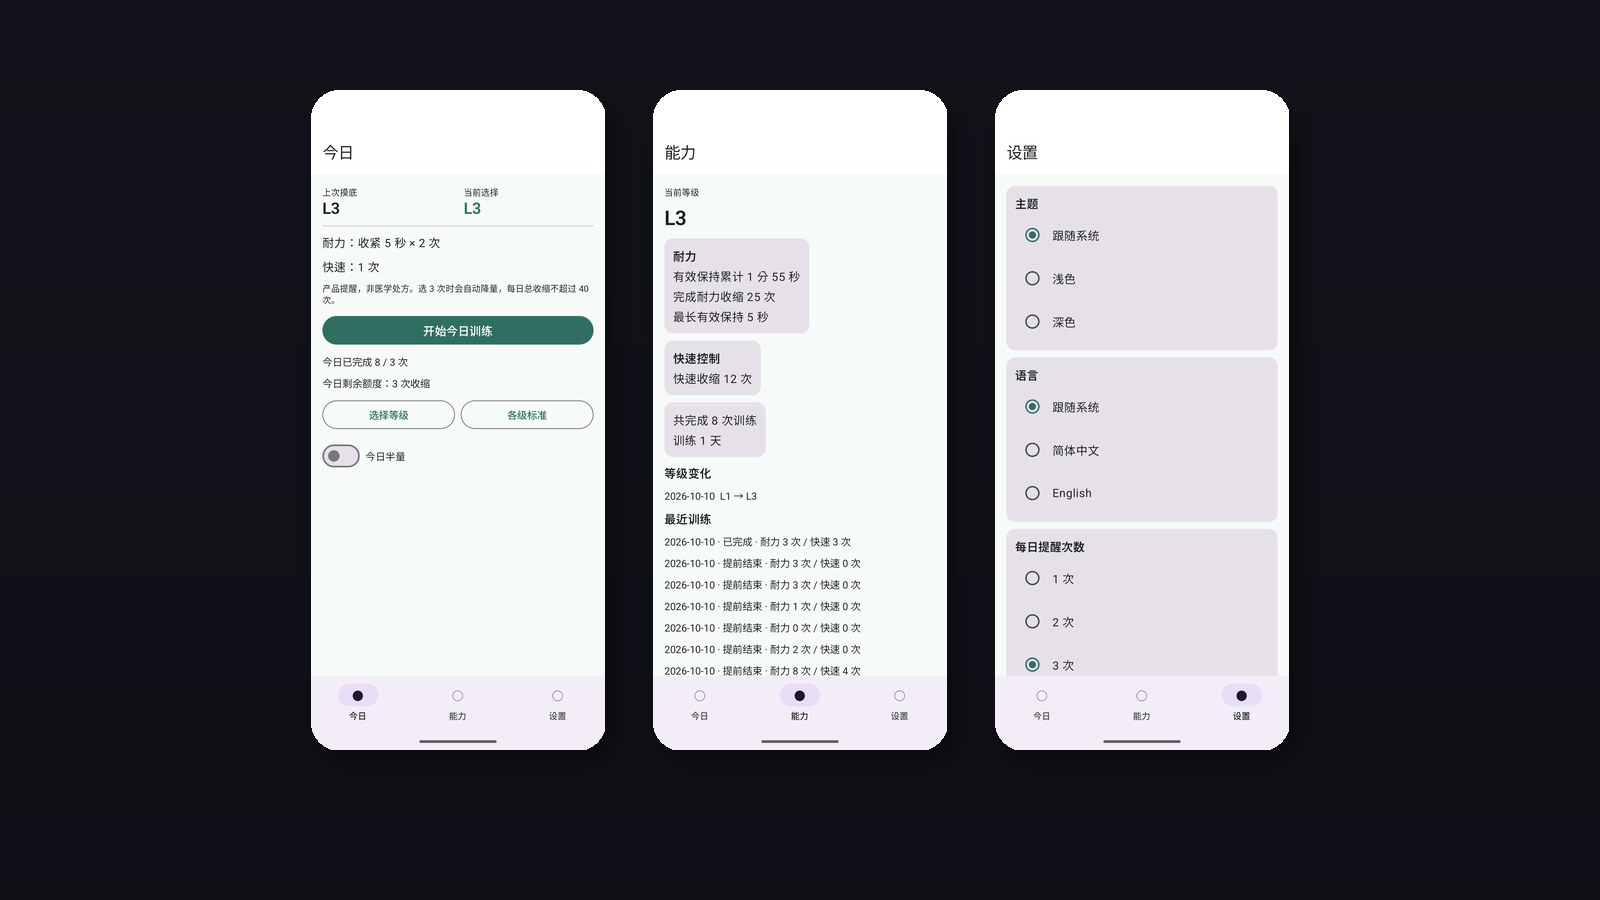
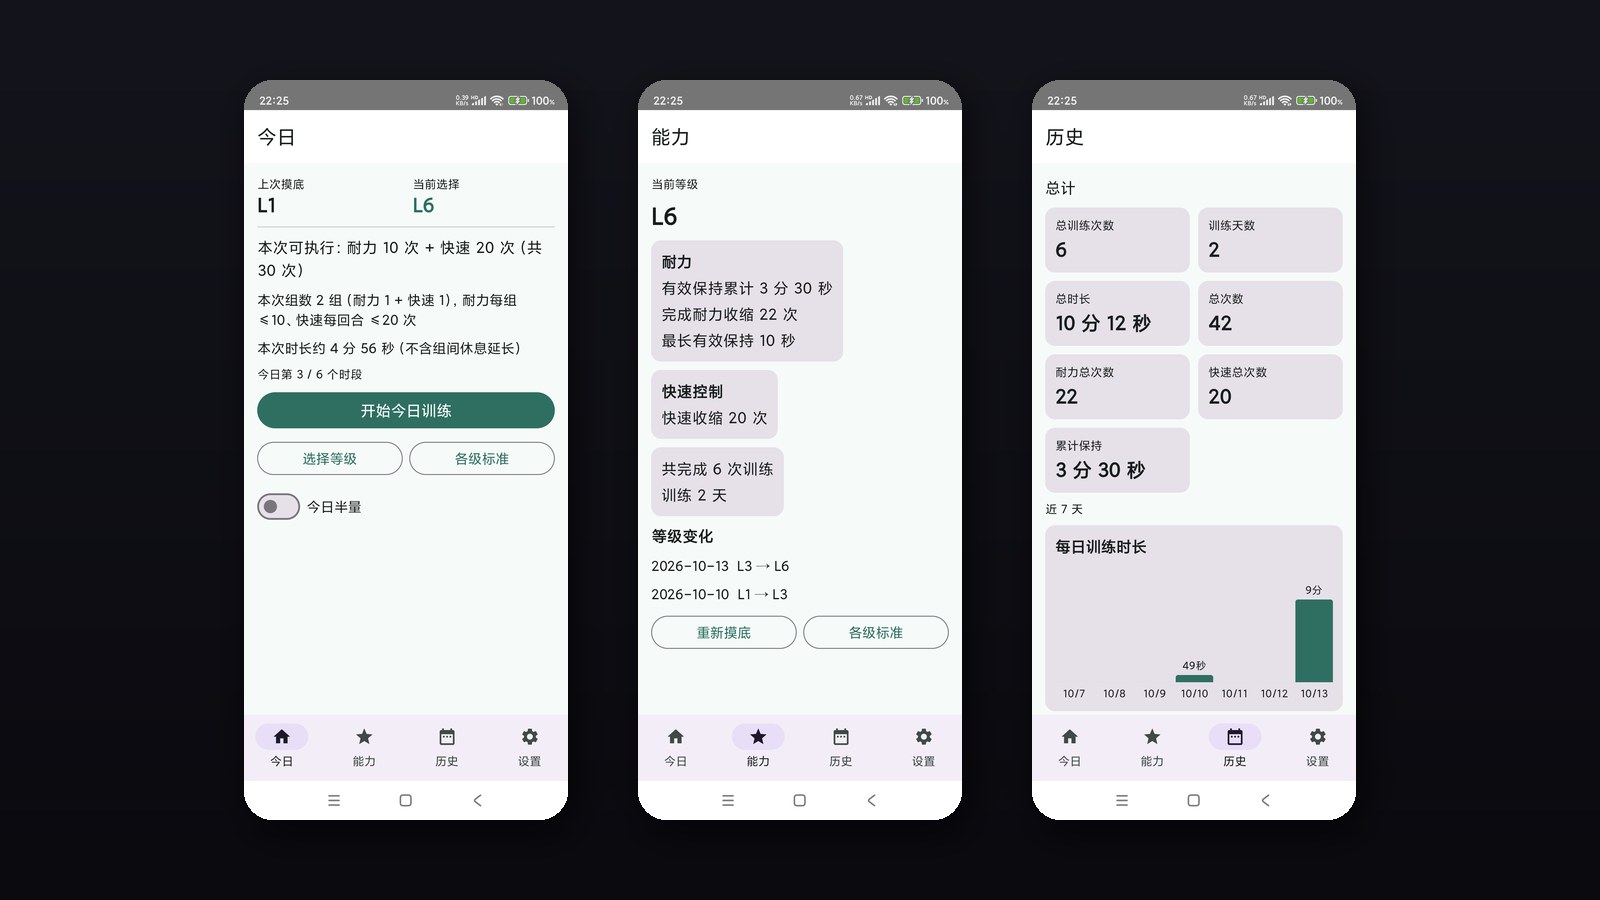
content(kegel-trainer): 更新到 v1.1、剂量与历史统计说明、新封面

Changed region(s): [[0.125, 0.0622, 0.875, 0.9333]]

diff --git a/app/content.ts b/app/content.ts
@@ -1067,12 +1067,12 @@ export const projects: Project[] = [
     challenge:
       "语音要能扛住锁屏、来电和切后台不中断；计时与播报必须严格对齐；摸底全程不能要求用户手动计数；训练中途还要留得出安全出口。",
     solution:
-      "Kotlin + Jetpack Compose 实现，音频走 Media3 前台媒体服务；训练按当前等级自动生成「耐力 + 快速」脚本，语音播报收紧 / 保持倒计时 / 放松 / 休息；5 项摸底全部内置计时与语音引导并给出 L1–L6 等级建议；每日收缩额度封顶 40 次，支持低调模式、半量与中英双语、主题三态，数据仅存本机、无联网无账号。",
+      "Kotlin + Jetpack Compose 实现，音频走 Media3 前台媒体服务；每级按「每天几场 × 每场几次」定义，每场固定「1 个耐力组 + 1 个快速回合」，次数每次一致；「各级标准」页用耐力 / 快速 / 每日总计三张表列出；5 项摸底全部内置计时与语音引导并给出 L1–L6 等级建议；新增历史页，展示训练总计与每日时长 / 每日次数柱状图。支持低调模式、半量与中英双语、主题三态，数据仅存本机、无联网无账号。",
     outcome:
-      "已发 GitHub Release v1.0 并挂可直接下载的 APK（debug 签名，Android 12+）；34 条产品验收 AC 全部通过并留有逐条截图证据。",
+      "已发 GitHub Release v1.1 并挂可直接下载的正式签名 APK（Android 12+）；产品验收全部通过，历史页提供训练统计与图表。",
     gallery: [],
     releaseUrl:
-      "https://github.com/wanghoufan/p045-kegel-training/releases/tag/v1.0",
+      "https://github.com/wanghoufan/p045-kegel-training/releases/tag/v1.1",
     repoUrl: "https://github.com/wanghoufan/p045-kegel-training",
     links: [
       {
@@ -1081,7 +1081,7 @@ export const projects: Project[] = [
       },
       {
         label: "下载安卓安装包",
-        href: "https://github.com/wanghoufan/p045-kegel-training/releases/tag/v1.0",
+        href: "https://github.com/wanghoufan/p045-kegel-training/releases/tag/v1.1",
       },
     ],
   },

diff --git a/app/i18n.detail.ts b/app/i18n.detail.ts
@@ -296,9 +296,9 @@ export const projectDetailEn: Record<string, ProjectDetailEn> = {
     challenge:
       "The audio has to survive lock screens, incoming calls and backgrounding; the voice and the timer must stay strictly in step; the assessment must never ask the user to count manually; and a safety exit has to be reachable mid-session.",
     solution:
-      "Built with Kotlin and Jetpack Compose; audio runs on a Media3 foreground media session. Daily training auto-generates an endurance + quick-control script from the current level, voicing tighten / hold countdown / relax / rest; all 5 assessment items ship with built-in timers and audio cues and suggest a level from L1 to L6; daily contractions are capped at 40 with a low-key silent mode, a half-dose switch, light/dark/system themes and zh-CN/English — all data stays on-device, no network, no accounts.",
+      "Built with Kotlin and Jetpack Compose; audio runs on a Media3 foreground media session. Each level is defined as sessions-per-day × reps-per-session, so every session is identical (one endurance group + one quick round); a Standards page lists the endurance, quick and daily-total tables; all 5 assessment items ship with built-in timers and audio cues and suggest a level from L1 to L6; a History page shows totals plus daily-time and daily-reps bar charts. Low-key silent mode, half-dose switch, light/dark/system themes and zh-CN/English; all data stays on-device, no network, no accounts.",
     outcome:
-      "GitHub Release v1.0 published with a directly downloadable APK (debug-signed, Android 12+); all 34 product acceptance criteria passed with per-item screenshot evidence.",
+      "GitHub Release v1.1 published with a directly downloadable, release-signed APK (Android 12+); all product acceptance criteria passed; a History page provides training stats and charts.",
     tags: ["Android", "Kotlin / Jetpack Compose", "Voice-guided", "Offline on-device data"],
   },
   "photo-library": {

diff --git a/app/i18n.ts b/app/i18n.ts
@@ -230,7 +230,7 @@ export const projectEn: Record<string, { title: string; summary: string }> = {
   "kegel-trainer": {
     title: "Pelvic Trainer",
     summary:
-      "Do Kegels by ear: spoken cues guide every tighten-hold-relax through six auto-built levels, so there is no screen to watch and no reps to count.",
+      "Do Kegels by ear: spoken cues guide every tighten-hold-relax through six auto-built levels, so there is no screen to watch and no reps to count — with per-day time and reps charted in a History page.",
   },
   "photo-library": {
     title: "Photo Library",
